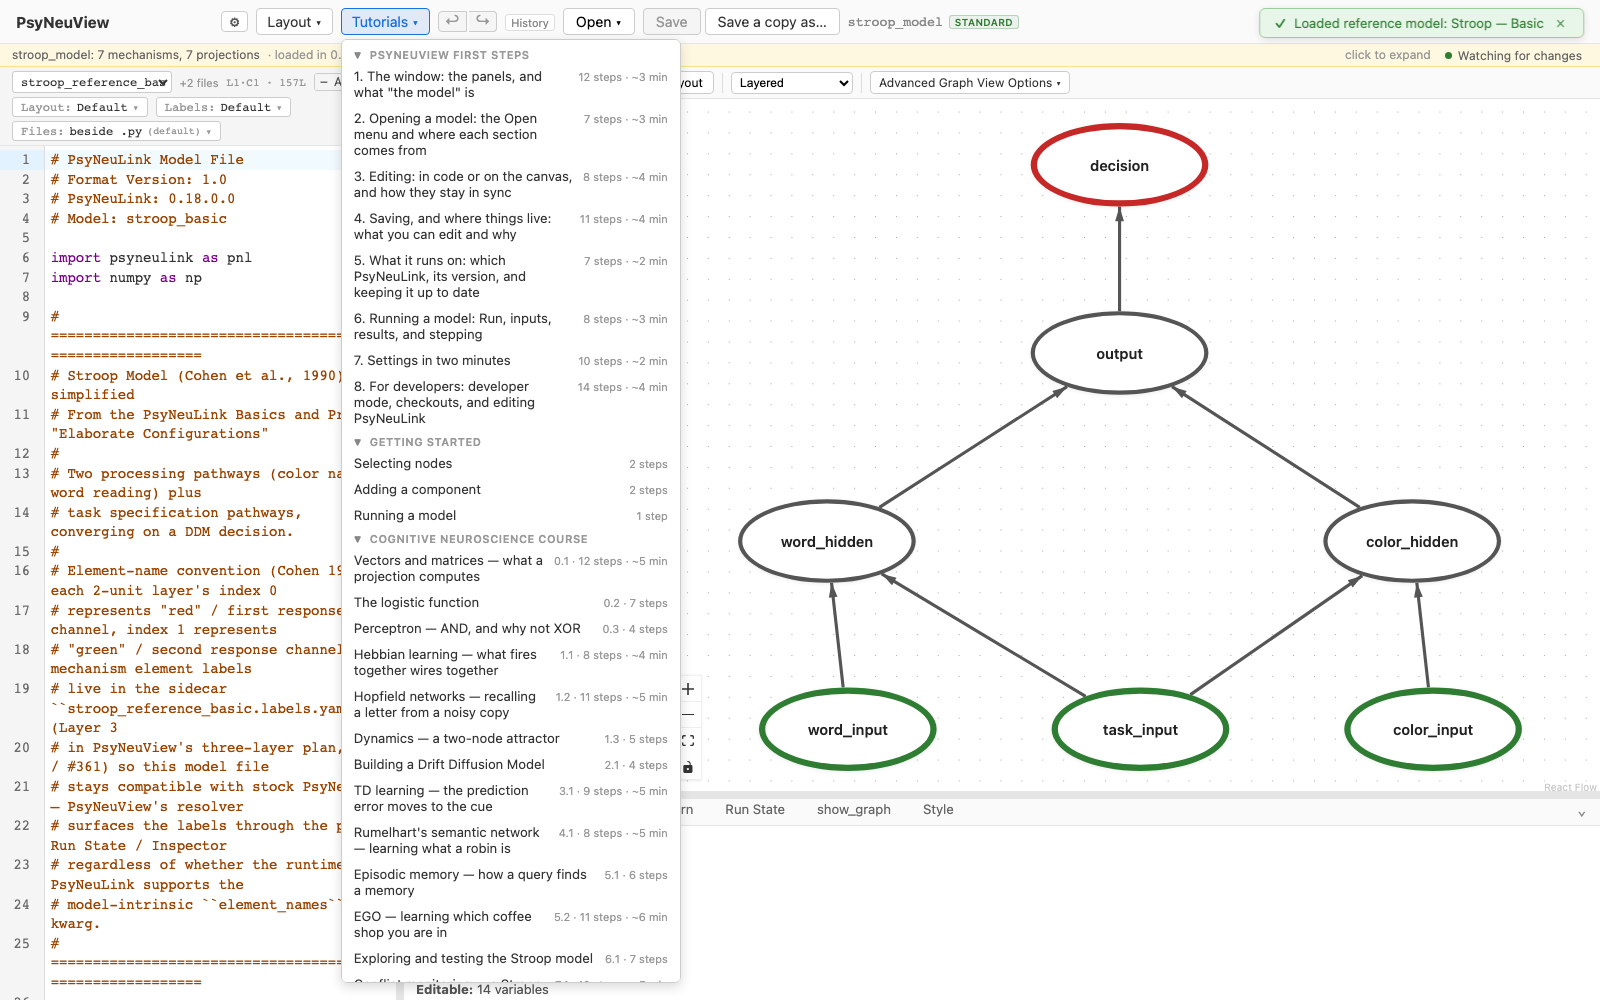
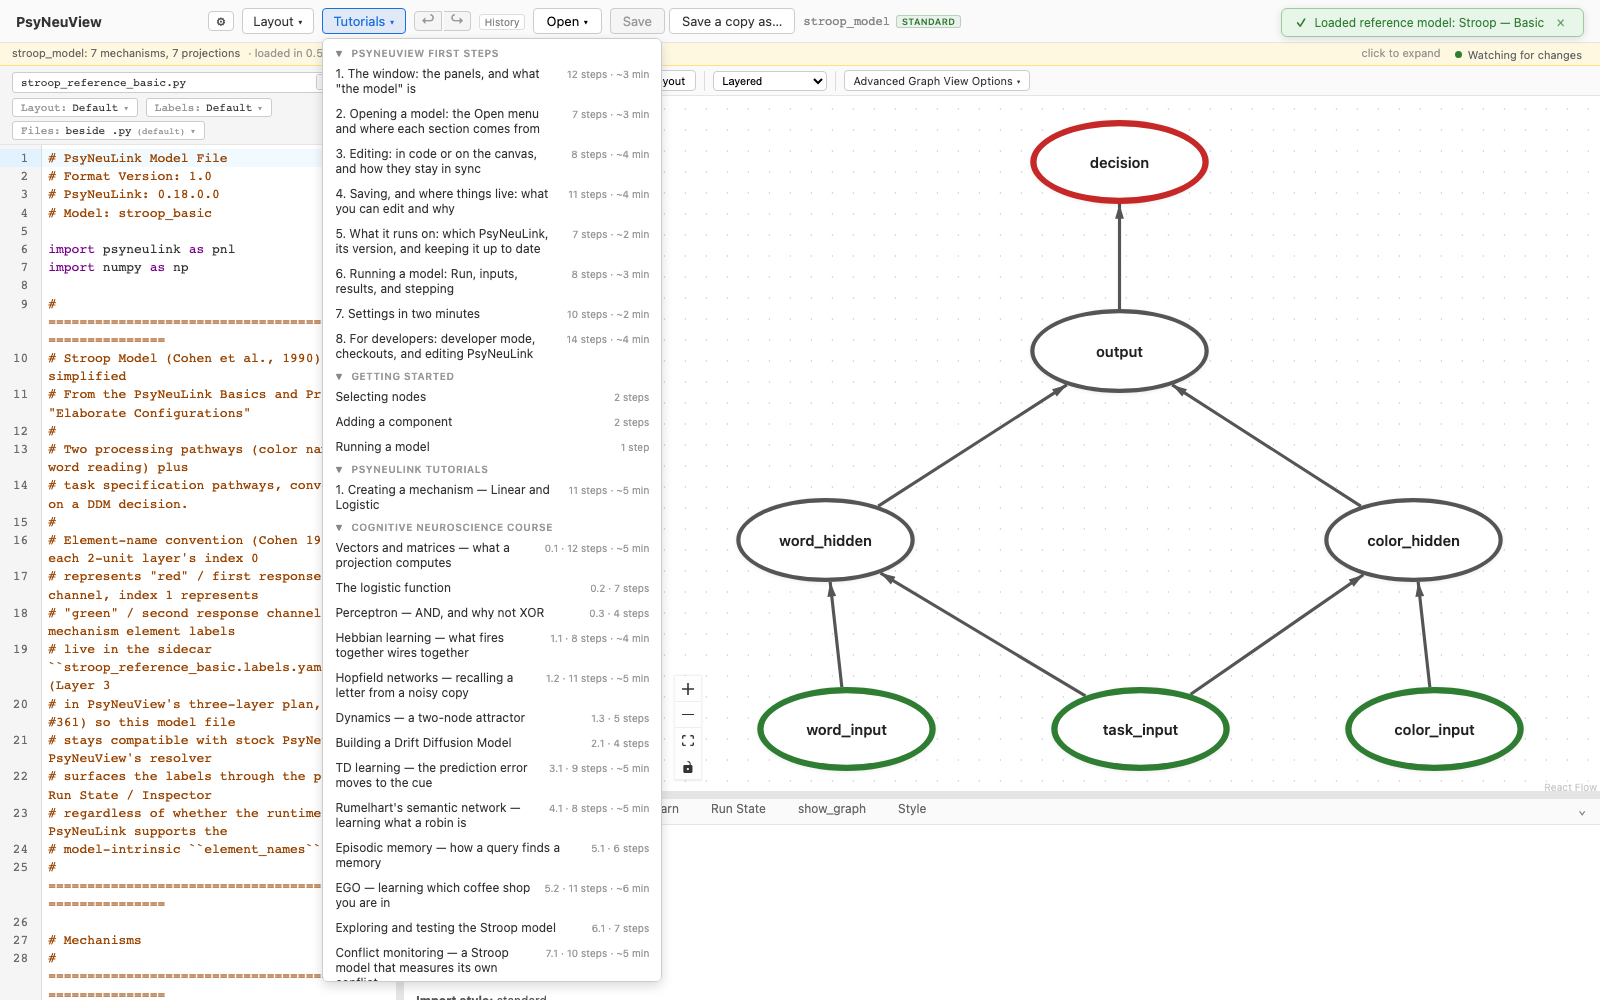
Tutorials menu: a PsyNeuLink Tutorials section, with its first lesson (#9)
A walkthrough can now carry `psyneulink: N`, its place in PsyNeuLink
Tutorials, a new section between Getting started and the Cognitive
Neuroscience Course. It folds on first run like the course, and its rows
are numbered like First Steps. A walkthrough belongs to one section only.

Lesson 1, "Creating a mechanism — Linear and Logistic", follows the first
two sections of PsyNeuLink's Tutorial notebook, built from New Model:
the notebook's executions (2; slope 3 with 4; slope 4 and intercept 5
with 3; a Logistic with -2) give 2, 12, 17 and 0.119, measured in the
app. The last step says what stays in the notebook: execute() on a lone
mechanism, plot(), and the gain/offset step examples, which were written
for an older Logistic (offset is added to the output now).

Refs #9

diff --git a/frontend/src/utils/tourStep.ts b/frontend/src/utils/tourStep.ts
@@ -29,6 +29,7 @@ import iscciYaml from "@/walkthroughs/iscci.yaml?raw";
 import logisticYaml from "@/walkthroughs/logistic.yaml?raw";
 import memoryYaml from "@/walkthroughs/memory.yaml?raw";
 import perceptronYaml from "@/walkthroughs/perceptron.yaml?raw";
+import pnlMechanismYaml from "@/walkthroughs/pnl-mechanism.yaml?raw";
 import demoYaml from "@/walkthroughs/demo.yaml?raw";
 import runYaml from "@/walkthroughs/run.yaml?raw";
 import semanticYaml from "@/walkthroughs/semantic.yaml?raw";
@@ -275,6 +276,12 @@ export interface Walkthrough {
    * walkthrough.
    */
   orientation?: number;
+  /**
+   * Its place in **PsyNeuLink Tutorials** (#9), the walkthroughs that follow
+   * PsyNeuLink's own Tutorial notebook and Basics and Primer: 1 for the first
+   * lesson, and so on. Absent for every other walkthrough.
+   */
+  psyneulink?: number;
   /** The docs pages the walkthrough relies on, as paths under `docs/` (#1310). */
   docs?: string[];
   /**
@@ -425,7 +432,7 @@ function sameTrials(wanted: TrialInputs, actual: Record<string, number[][]>): bo
 export function parseWalkthrough(text: string): Walkthrough {
   const raw = yaml.load(text) as Partial<Walkthrough> | undefined;
   if (!raw || typeof raw !== "object") throw new Error("walkthrough: not a mapping");
-  const { id, title, model, course, orientation, docs, developerMode, minutes, steps } = raw;
+  const { id, title, model, course, orientation, psyneulink, docs, developerMode, minutes, steps } = raw;
   if (!id || !title) throw new Error("walkthrough: needs id and title");
   if (!Array.isArray(steps) || steps.length === 0) throw new Error("walkthrough: needs steps");
   steps.forEach((step, i) => {
@@ -454,6 +461,12 @@ export function parseWalkthrough(text: string): Walkthrough {
   if (orientation !== undefined && (!Number.isInteger(orientation) || orientation < 1)) {
     throw new Error(`walkthrough "${id}": orientation must be a whole number from 1, got ${JSON.stringify(orientation)}`);
   }
+  if (psyneulink !== undefined && (!Number.isInteger(psyneulink) || psyneulink < 1)) {
+    throw new Error(`walkthrough "${id}": psyneulink must be a whole number from 1, got ${JSON.stringify(psyneulink)}`);
+  }
+  if ([course, orientation, psyneulink].filter((x) => x !== undefined).length > 1) {
+    throw new Error(`walkthrough "${id}": belongs to one section only (course, orientation or psyneulink)`);
+  }
   const docList =
     docs === undefined ? undefined : (Array.isArray(docs) ? docs : [docs]).map((d) => String(d));
   if (docList?.some((d) => !/^[\w./-]+\.md$/.test(d))) {
@@ -471,6 +484,7 @@ export function parseWalkthrough(text: string): Walkthrough {
     model,
     course: course === undefined ? undefined : String(course),
     orientation,
+    psyneulink,
     docs: docList,
     developerMode,
     minutes,
@@ -502,6 +516,7 @@ export const WALKTHROUGHS: Record<string, Walkthrough> = {
   td: parseWalkthrough(tdYaml),
   vectors: parseWalkthrough(vectorsYaml),
   hopfield: parseWalkthrough(hopfieldYaml),
+  "pnl-mechanism": parseWalkthrough(pnlMechanismYaml),
   "orientation-window": parseWalkthrough(orientationWindowYaml),
   "orientation-open": parseWalkthrough(orientationOpenYaml),
   "orientation-editing": parseWalkthrough(orientationEditingYaml),
@@ -525,10 +540,11 @@ function lessonKey(lesson: string): [number, number] {
  * which rows were course lessons.
  */
 export const ORIENTATION_GROUP = "PsyNeuView First Steps";
+export const PSYNEULINK_GROUP = "PsyNeuLink Tutorials";
 
 export interface MenuGroup {
   /** Stable, for the test id `walkthrough-group-<id>`. */
-  id: "orientation" | "general" | "course";
+  id: "orientation" | "general" | "psyneulink" | "course";
   title: string;
   walkthroughs: Walkthrough[];
 }
@@ -539,7 +555,12 @@ export function menuGroups(all: Walkthrough[] = Object.values(WALKTHROUGHS)): Me
   const orientation = all
     .filter((w) => w.orientation !== undefined)
     .sort((a, b) => a.orientation! - b.orientation!);
-  const general = all.filter((w) => !w.course && w.orientation === undefined);
+  const general = all.filter((w) => !w.course && w.orientation === undefined && w.psyneulink === undefined);
+  // #9: PsyNeuLink's own tutorials, in lesson order, between the app's own
+  // walkthroughs and the course.
+  const psyneulink = all
+    .filter((w) => w.psyneulink !== undefined)
+    .sort((a, b) => a.psyneulink! - b.psyneulink!);
   const course = all
     .filter((w) => w.course)
     .sort((a, b) => {
@@ -550,6 +571,7 @@ export function menuGroups(all: Walkthrough[] = Object.values(WALKTHROUGHS)): Me
   return [
     { id: "orientation" as const, title: ORIENTATION_GROUP, walkthroughs: orientation },
     { id: "general" as const, title: "Getting started", walkthroughs: general },
+    { id: "psyneulink" as const, title: PSYNEULINK_GROUP, walkthroughs: psyneulink },
     { id: "course" as const, title: "Cognitive Neuroscience Course", walkthroughs: course },
   ].filter((g) => g.walkthroughs.length > 0);
 }

diff --git a/frontend/src/utils/tourStep.test.ts b/frontend/src/utils/tourStep.test.ts
@@ -326,6 +326,7 @@ describe("isDone — lastTraining on inputs, for a model with no targets (#48)",
 describe("menuGroups", () => {
   const w = (id: string, course?: string) => ({ id, title: id, course, steps: [] as never[] });
   const o = (id: string, orientation: number) => ({ id, title: id, orientation, steps: [] as never[] });
+  const p = (id: string, psyneulink: number) => ({ id, title: id, psyneulink, steps: [] as never[] });
 
   /** #1310: the orientation leads the menu, in its own numbered order. */
   it("puts PsyNeuView First Steps first, in part order", () => {
@@ -367,6 +368,33 @@ describe("menuGroups", () => {
 
   it("omits an empty section", () => {
     expect(menuGroups([w("demo")]).map((g) => g.title)).toEqual(["Getting started"]);
+  });
+
+  /** #9: PsyNeuLink's own tutorials sit between the app's walkthroughs and the course, in lesson order. */
+  it("puts PsyNeuLink Tutorials after Getting started and before the course, in lesson order", () => {
+    const groups = menuGroups([o("o-one", 1), w("ddm", "2.1"), p("p-two", 2), w("demo"), p("p-one", 1)]);
+    expect(groups.map((g) => g.id)).toEqual(["orientation", "general", "psyneulink", "course"]);
+    expect(groups[2].title).toBe("PsyNeuLink Tutorials");
+    expect(groups[2].walkthroughs.map((x) => x.id)).toEqual(["p-one", "p-two"]);
+    expect(groups[1].walkthroughs.map((x) => x.id)).toEqual(["demo"]);
+  });
+
+  it("ships the first PsyNeuLink lesson, with a caption on every step", () => {
+    const lessons = menuGroups().find((g) => g.id === "psyneulink")?.walkthroughs ?? [];
+    expect(lessons.map((l) => [l.id, l.psyneulink])).toEqual([["pnl-mechanism", 1]]);
+    for (const l of lessons) {
+      expect(l.docs?.length, `"${l.id}" cites no docs page`).toBeGreaterThan(0);
+      for (const step of l.steps) expect(step.say, `"${l.id}"/"${step.id}" has no caption`).toBeTruthy();
+    }
+  });
+
+  it("rejects a psyneulink lesson number that isn't a whole number from 1, or a second section", () => {
+    const doc = (extra: string) =>
+      `id: x\ntitle: X\n${extra}steps:\n  - id: s\n    anchor: {testid: t}\n    instruct: i\n    done: {nodeExists: n}\n`;
+    expect(() => parseWalkthrough(doc("psyneulink: 0\n"))).toThrow(/psyneulink must be/);
+    expect(() => parseWalkthrough(doc("psyneulink: first\n"))).toThrow(/psyneulink must be/);
+    expect(() => parseWalkthrough(doc("psyneulink: 1\ncourse: \"0.1\"\n"))).toThrow(/one section only/);
+    expect(parseWalkthrough(doc("psyneulink: 2\n")).psyneulink).toBe(2);
   });
 
   it("orders the shipped course walkthroughs as the course does", () => {

diff --git a/frontend/e2e/tutorials-menu-folding.spec.ts b/frontend/e2e/tutorials-menu-folding.spec.ts
@@ -30,10 +30,11 @@ readOnlyTest.describe("Tutorials menu sections fold", { tag: "@ci" }, () => {
 
     await expect(page.getByTestId("tutorials-section-orientation")).toHaveAttribute("aria-expanded", "true");
     await expect(page.getByTestId("walkthrough-orientation-window")).toBeVisible();
-    for (const id of ["general", "course"]) {
+    for (const id of ["general", "psyneulink", "course"]) {
       await expect(page.getByTestId(`tutorials-section-${id}`)).toHaveAttribute("aria-expanded", "false");
     }
     await expect(page.getByTestId("walkthrough-demo")).toHaveCount(0);
+    await expect(page.getByTestId("walkthrough-pnl-mechanism")).toHaveCount(0);
     await expect(page.getByTestId("walkthrough-ego")).toHaveCount(0);
     // A folded heading says how many walkthroughs it holds.
     await expect(page.getByTestId("tutorials-section-course")).toContainText("14");
@@ -74,7 +75,7 @@ mutatingTest.describe("Tutorials menu sections fold, while a walkthrough runs", 
     // Everything folded, then start the general "demo" walkthrough by URL.
     await page.addInitScript(([key]) => {
       if (!sessionStorage.getItem("fold-spec-seeded")) {
-        localStorage.setItem(key, JSON.stringify(["orientation", "general", "course"]));
+        localStorage.setItem(key, JSON.stringify(["orientation", "general", "psyneulink", "course"]));
         sessionStorage.setItem("fold-spec-seeded", "1");
       }
     }, [TUTORIALS_FOLDED_KEY]);

diff --git a/frontend/src/components/layout/Toolbar.tsx b/frontend/src/components/layout/Toolbar.tsx
@@ -3436,7 +3436,7 @@ function WalkthroughMenu() {
                   }}
                 >
                   <span>
-                    {w.orientation !== undefined ? `${w.orientation}. ` : ""}
+                    {w.orientation !== undefined ? `${w.orientation}. ` : w.psyneulink !== undefined ? `${w.psyneulink}. ` : ""}
                     {w.title}
                   </span>
                   <span style={{ fontSize: "var(--pnv-fs-10)", color: "var(--pnv-text-faint)", whiteSpace: "nowrap" }}>

diff --git a/frontend/src/utils/tutorialsMenuFold.ts b/frontend/src/utils/tutorialsMenuFold.ts
@@ -13,7 +13,7 @@
 export const TUTORIALS_FOLDED_KEY = "psyneuview.tutorials.foldedSections";
 
 /** Sections folded on first run: all but PsyNeuView First Steps. */
-export const DEFAULT_FOLDED_SECTIONS: readonly string[] = ["general", "course"];
+export const DEFAULT_FOLDED_SECTIONS: readonly string[] = ["general", "psyneulink", "course"];
 
 type Storage = Pick<globalThis.Storage, "getItem" | "setItem">;
 
